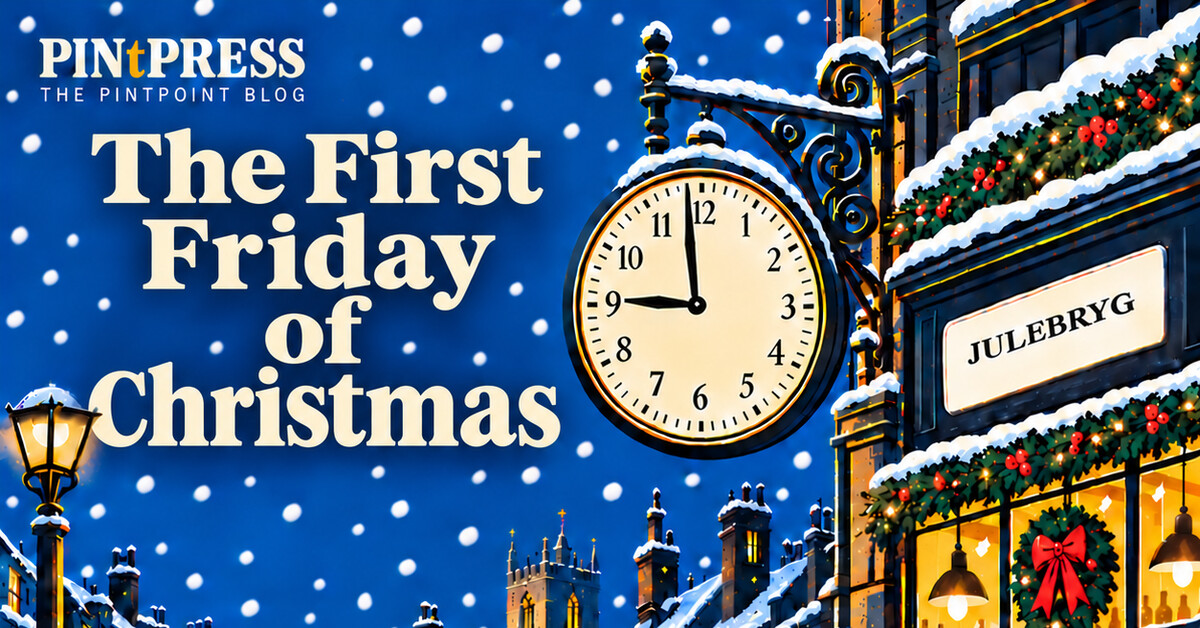
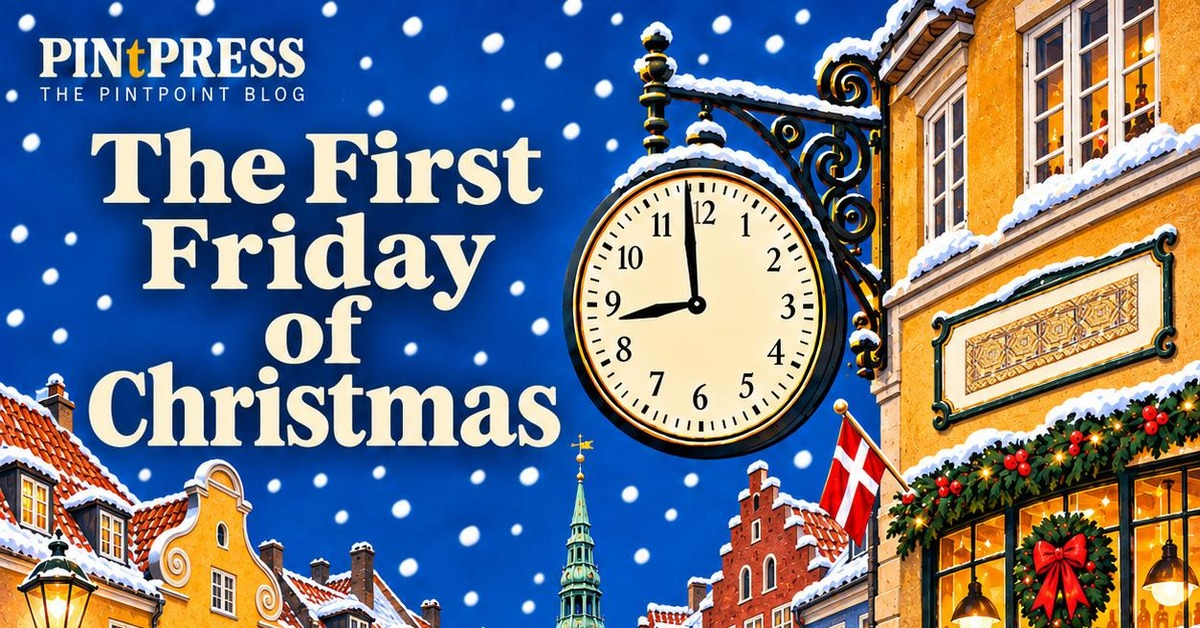
First Friday of Christmas: the Copenhagen card
Third version of the art, and the first one that looks Danish: gabled
merchant houses, a copper spire, a Danish flag and the Tuborg lorry.
The two before it were an English street with an English church tower,
for a piece about a Danish brewery's Danish launch night.

The landscape is cut from it the same way as before, top 1254x656
scaled to 1200x628: lockup, headline, clock, flag, nothing clipped.

The alt had to change with the picture. It promised "a lit shop window
under the word Julebryg", and there is no Julebryg sign in this one. It
now reads "a snowy street of gabled houses at night under a Danish
flag, a hanging street clock reading one minute to nine, and a red
Tuborg lorry loaded with barrels", which is what is actually there.

diff --git a/blog/drafts/the-first-friday-of-christmas.html b/blog/drafts/the-first-friday-of-christmas.html
@@ -17,7 +17,7 @@
   <meta property="og:image:height" content="628" />
   <meta property="og:image:type" content="image/jpeg" />
   <meta property="og:image" content="https://pintpoint.co.uk/blog/images/the-first-friday-of-christmas-x.jpg" />
-  <meta property="og:image:alt" content="PINtPRESS cover: a snowy street at night, a hanging street clock reading one minute to nine, and a lit shop window under the word Julebryg." />
+  <meta property="og:image:alt" content="PINtPRESS cover: a snowy street of gabled houses at night under a Danish flag, a hanging street clock reading one minute to nine, and a red Tuborg lorry loaded with barrels." />
   <meta name="twitter:card" content="summary_large_image" />
   <meta name="twitter:image" content="https://pintpoint.co.uk/blog/images/the-first-friday-of-christmas-x.jpg" />
   <link rel="preconnect" href="https://fonts.googleapis.com" />
